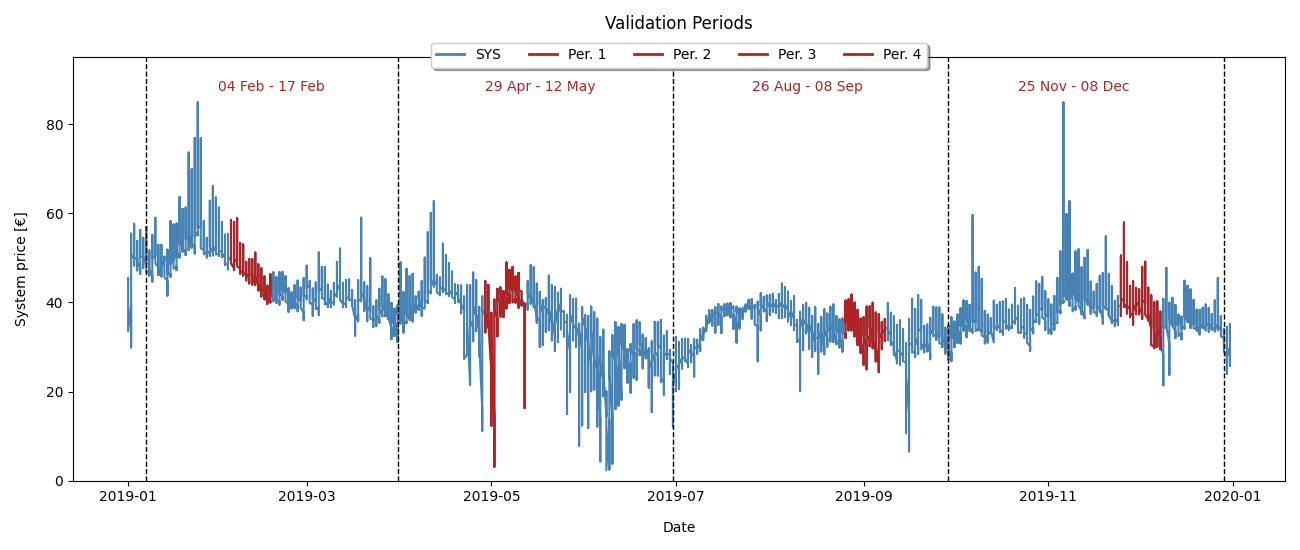
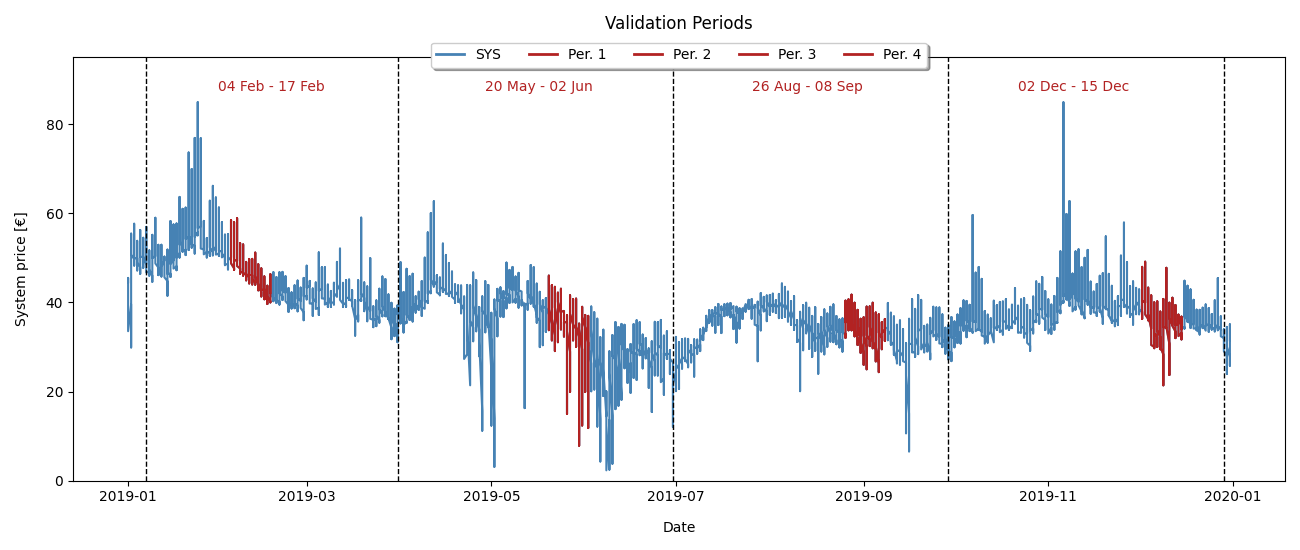
valideringstest og meget naiv modell

diff --git a/src/system/validate.py b/src/system/validate.py
@@ -1,0 +1,152 @@
+# script for validation test
+from generate_periods import get_four_periods_median_method
+from src.models.benchmarks import copy_last_day
+from data.data_handler import get_data
+import os
+import numpy as np
+import matplotlib.pyplot as plt
+import pandas as pd
+import shutil
+import datetime as dt
+import math
+
+
+def validate(model, periods):
+    print("-- Running validation using Model '{}' --".format(model.get_name()))
+    result_list = []
+    for i in range(len(periods)):
+        forecast_df = get_forecast(model, periods[i])
+        true_price_df = get_data(periods[i][0], periods[i][1], ["System Price"], os.getcwd())
+        result_df = true_price_df.merge(forecast_df, on=["Date", "Hour"], how="outer")
+        result_list.append(result_df)
+    result_path = get_result_folder(model)
+    for i in range(len(result_list)):
+        plot_result(result_list[i], periods[i], result_path, model.get_name(), str(i + 1))
+    calculate_point_performance(result_list, result_path, model)
+
+
+def get_forecast(model, period):
+    print("Forecasting from {} to {}".format(period[0], period[1]))
+    time_df = get_data(period[0], period[1], [], os.getcwd())
+    time_df["Forecast"] = np.nan
+    return model.get_point_forecast(time_df)
+
+
+def get_result_folder(model):
+    name = model.get_name()
+    # time = model.get_time() REMOVE "#" if you want to keep old folder with same model name
+    # folder_name = (name+"_"+time).replace(" ", "")
+    folder_name = name.replace(" ", "")
+    folder_path = "../results/validation/" + folder_name
+    if os.path.exists(folder_path):
+        shutil.rmtree(folder_path)  # delete old
+    os.makedirs(folder_path)  # create new
+    return folder_path
+
+
+def plot_result(result, period, dir_path, model_name, period_no):
+    label_pad = 12
+    title_pad = 20
+    img_size = (13, 7)
+    true_color = "steelblue"
+    fc_color = "firebrick"
+    result["Hour"] = pd.to_datetime(result['Hour'], format="%H").dt.time
+    result["DateTime"] = result.apply(lambda r: dt.datetime.combine(r['Date'], r['Hour']), 1)
+    print("Plotting from {} to {}".format(period[0], period[1]))
+    fig, ax = plt.subplots(figsize=img_size)
+    plt.plot(result["DateTime"], result["System Price"], label="True", color=true_color)
+    plt.plot(result["DateTime"], result["Forecast"], label="Forecast", color=fc_color)
+    for line in plt.legend(loc='upper center', ncol=5, bbox_to_anchor=(0.5, 1.03),
+                           fancybox=True, shadow=True).get_lines():
+        line.set_linewidth(2)
+    plt.ylabel("Price [€]", labelpad=label_pad)
+    plt.xlabel("Date", labelpad=label_pad)
+    ax.xaxis.set_major_locator(plt.MaxNLocator(7))
+    start_day_string = dt.datetime.strftime(period[0], "%d %b")
+    end_day_string = dt.datetime.strftime(period[1], "%d %b")
+    plt.title("Result from '{}' - {} to {}".format(model_name, start_day_string, end_day_string), pad=title_pad)
+    plt.tight_layout()
+    plot_path = period_no + "_" + start_day_string.replace(" ", "") + "_" + end_day_string.replace(" ", "") + ".png"
+    out_path = dir_path + "/" + plot_path
+    plt.savefig(out_path)
+    plt.close()
+
+
+def calculate_point_performance(result_list, dir_path, model):
+    print("\nCalculating point performance:")
+    mapes = []
+    smapes = []
+    maes = []
+    rmses = []
+    for result in result_list:
+        mapes.append(calculate_mape(result))
+        smapes.append(calculate_smape(result))
+        maes.append(calculate_mae(result))
+        rmses.append(calculate_rmse(result))
+    avg_mape = round(sum(mapes) / len(mapes), 2)
+    avg_smape = round(sum(smapes) / len(smapes), 2)
+    avg_mae = round(sum(maes) / len(maes), 2)
+    avg_rmse = round(sum(rmses) / len(rmses), 2)
+    summary = open(dir_path + "/performance.txt", "w")
+    summary.write("-- Performance Summary for '{}', created {} --\n\n".format(model.get_name(),
+                                                                              model.get_time().replace("_", " ")))
+    line = "Point performance:\nMape:\t {}\nSmape:\t{}\nMae:\t{}\nRmse:\t{}\n\n".format(avg_mape, avg_smape, avg_mae,
+                                                                                        avg_rmse)
+    summary.write(line)
+    lines = ["Mapes: " + ", ".join(format(x, ".2f") for x in mapes) + "\n",
+             "Smapes: " + ", ".join(format(x, ".2f") for x in smapes) + "\n",
+             "Maes: " + ", ".join(format(x, ".2f") for x in maes) + "\n",
+             "Rmses: " + ", ".join(format(x, ".2f") for x in rmses) + "\n"]
+    for line in lines:
+        summary.write(line)
+    summary.close()
+
+
+def calculate_mape(result):
+    apes = []
+    for index, row in result.iterrows():
+        true = row["System Price"]
+        forecast = row["Forecast"]
+        ape = (abs(true - forecast) / true) * 100
+        apes.append(ape)
+    mape = sum(apes) / len(apes)
+    return mape
+
+
+def calculate_smape(result):
+    sapes = []
+    for index, row in result.iterrows():
+        true = row["System Price"]
+        forecast = row["Forecast"]
+        sape = 100 * (abs(true - forecast) / (true + forecast / 2))
+        sapes.append(sape)
+    smape = sum(sapes) / len(sapes)
+    return smape
+
+
+def calculate_mae(result):
+    aes = []
+    for index, row in result.iterrows():
+        true = row["System Price"]
+        forecast = row["Forecast"]
+        ae = abs(true - forecast)
+        aes.append(ae)
+    mae = sum(aes) / len(aes)
+    return mae
+
+
+def calculate_rmse(result):
+    ses = []
+    for index, row in result.iterrows():
+        true = row["System Price"]
+        forecast = row["Forecast"]
+        se = (true - forecast) ** 2
+        ses.append(se)
+    rmse = math.sqrt(sum(ses) / len(ses))
+    return rmse
+
+
+if __name__ == '__main__':
+    model_ = copy_last_day.CopyLastDayModel()
+    periods_ = get_four_periods_median_method(write_summary=False)
+    validate(model_, periods_)

diff --git a/data/data_handler.py b/data/data_handler.py
@@ -2,25 +2,32 @@
 import datetime
 import pandas as pd
 import numpy as np
+import os
 
 
-def get_data(from_date, to_date, column_list):  # dates on form "dd.mm.yyyy", columns in list ["System Price", ...]
-    print("--Retrieving data from {} to {}. Columns: {} --\n".format(from_date, to_date, ", ".join(column_list)))
-    valid_dates = check_valid_dates(from_date, to_date)
-    if valid_dates:
-        first_row_in_data = datetime.datetime.strptime("01.01.2014", '%d.%m.%Y')
+def get_data(from_date, to_date, column_list, work_dir):  # dates on form "dd.mm.yyyy", columns in list ["System Price", ...]
+    # print("--Retrieving data from {} to {}. Columns: {} --\n".format(from_date, to_date, ", ".join(column_list)))
+    path = get_path_to_all_data(work_dir)
+    first_row_in_data = datetime.datetime.strptime("01.01.2014", '%d.%m.%Y')
+    if isinstance(from_date, str):
         first_date = datetime.datetime.strptime(from_date, '%d.%m.%Y')
+    else:
+        first_date = datetime.datetime(from_date.year, from_date.month, from_date.day)
+    if isinstance(to_date, str):
         last_date = datetime.datetime.strptime(to_date, '%d.%m.%Y')
+    else:
+        last_date = datetime.datetime(to_date.year, to_date.month, to_date.day)
+    valid_dates = check_valid_dates(first_date, last_date)
+    if valid_dates:
         difference = first_date - first_row_in_data
         years = difference.days // 365
         hours_less = years - 1
         skip_rows_no = int(difference.days * 24 + difference.seconds / 3600) + (16 * years) - hours_less
         columns = ["Date", "Hour"] + column_list
-        path = "../../data/input/combined/all_data_hourly.csv"  # only works when run from src
-        if len(column_list) > 0:
-            dataset = pd.read_csv(path, skiprows=range(1, skip_rows_no), usecols=columns)
-        else:
+        if len(column_list)==1 and column_list[0] == "all":
             dataset = pd.read_csv(path, skiprows=range(1, skip_rows_no))
+        else:
+            dataset = pd.read_csv(path, skiprows=range(1, skip_rows_no), usecols=columns)
         dataset["Date"] = pd.to_datetime(dataset["Date"], format='%Y.%m.%d')
         dataset = dataset[dataset['Date'] <= np.datetime64(last_date.date())]
         return dataset
@@ -30,21 +37,32 @@ def get_data(from_date, to_date, column_list):  # dates on form "dd.mm.yyyy", co
 
 def check_valid_dates(from_date, to_date):  # helping method checking that dates are valid
     valid = True
-    try:
-        first_date = datetime.datetime.strptime(from_date, '%d.%m.%Y')
-        last_date = datetime.datetime.strptime(to_date, '%d.%m.%Y')
-        if last_date < first_date:
+    if isinstance(from_date, str) and isinstance(to_date, str):
+        try:
+            first_date = datetime.datetime.strptime(from_date, '%d.%m.%Y')
+            last_date = datetime.datetime.strptime(to_date, '%d.%m.%Y')
+            if last_date < first_date:
+                print("First date must come before last date")
+                valid = False
+        except Exception as e:
+            print(e)
+    else:
+        if from_date > to_date:
             print("First date must come before last date")
             valid = False
-    except Exception as e:
-        print(e)
-    finally:
-        return valid
+    return valid
+
+
+def get_path_to_all_data(work_dir):
+    path_to_project = "/".join(work_dir.split("\\")[0:5])
+    path_to_all_data = "/data/input/combined/all_data_hourly.csv"
+    path = path_to_project + path_to_all_data
+    return path
 
 
 if __name__ == '__main__':
     date_string_from = "01.01.2019"
     date_string_do = "31.12.2019"
     col = ["System Price"]
-    data = get_data(date_string_from, date_string_do, col)
+    data = get_data(date_string_from, date_string_do, col, os.getcwd())
     print(data)

diff --git a/src/system/generate_periods.py b/src/system/generate_periods.py
@@ -5,6 +5,7 @@ import math
 import datetime as dt
 import numpy as np
 import matplotlib.pyplot as plt
+import os
 
 
 def get_seasons():
@@ -21,16 +22,16 @@ def get_four_periods_median_method(write_summary):
     for s in seasons:
         period_table = pd.DataFrame(columns=["Start date", "End date", "Mean", "Variance", "Mean Dev", "Var Dev",
                                              "Norm Mean Dev", "Norm Var Dev", "Score"])
-        data = data_handler.get_data(s[0], s[1], ["System Price"])
+        data = data_handler.get_data(s[0], s[1], ["System Price"], os.getcwd())
         first_date_in_season = data.iloc[0]["Date"].date()
         last_date_in_season = data.iloc[-1]["Date"].date()
-        number_of_periods = math.floor((len(data) / 24) / 14)
+        number_of_periods = math.floor((len(data) / 24) / 7)
         if write_summary:
             print("First date in season: {}".format(first_date_in_season))
             print("Last date in season: {}".format(last_date_in_season))
             print("Number of periods in season: {}\n".format(number_of_periods))
         for i in range(number_of_periods):
-            first_date = first_date_in_season + dt.timedelta(days=14 * i)
+            first_date = first_date_in_season + dt.timedelta(days=7 * i)
             last_date = np.datetime64(first_date + dt.timedelta(days=13))
             first_date = np.datetime64(first_date)
             period = (data['Date'] >= first_date) & (data['Date'] <= last_date)
@@ -42,6 +43,7 @@ def get_four_periods_median_method(write_summary):
 
         season_mean = period_table["Mean"].mean()
         season_variance = period_table["Variance"].mean()
+
 
         for index, period in period_table.iterrows():
             period_mean_dev = abs(period["Mean"] - season_mean)
@@ -66,15 +68,16 @@ def get_four_periods_median_method(write_summary):
         periods.append((start_date_optimal_period, end_date_optimal_period))
 
         if write_summary:
-            print(period_table)
+            print("Season mean: {}, season variance: {}".format(round(season_mean, 2), round(season_variance, 2)))
+            print(period_table[["Mean", "Variance", "Norm Mean Dev", "Norm Var Dev", "Score"]])
             print("Optimal start: {}, optimal end: {}".format(start_date_optimal_period, end_date_optimal_period))
             print("\n")
 
-    print("The following four periods are suggested as validation test periods")
-    for p in periods:
-        print(p)
-    print("\n")
-
+    if write_summary:
+        print("The following four periods are suggested as validation test periods")
+        for p in periods:
+            print(p)
+        print("\n")
     return periods
 
 
@@ -122,4 +125,5 @@ def plot_price_year_and_periods(periods, write_dates):
 
 if __name__ == '__main__':
     periods_ = get_four_periods_median_method(write_summary=False)
-    plot_price_year_and_periods(periods_, write_dates=True)
+    # plot_price_year_and_periods(periods_, write_dates=True)
+    print(periods_)

diff --git a/src/models/benchmarks/copy_last_day.py b/src/models/benchmarks/copy_last_day.py
@@ -1,0 +1,45 @@
+# script for the most naive model: copy the 24 hours of last day for the following 14 days
+from datetime import datetime as dt
+from datetime import timedelta
+import pandas as pd
+from data import data_handler
+import os
+import numpy as np
+
+
+class CopyLastDayModel:
+    def __init__(self):
+        self.name = "Copy Last Day"
+        today = dt.today()
+        self.creation_date = str(today)[0:10] + "_" + str(today)[11:16]
+        print("'{}' is instantiated\n".format(self.name))
+
+    def get_name(self):
+        return self.name
+
+    def get_time(self):
+        return self.creation_date
+
+    @staticmethod
+    def get_point_forecast(forecast_df):  # forecast_df is dataframe with ["Date", "Hour", "Forecast"]
+        start_date = forecast_df.at[0, "Date"]
+        prev_day = start_date - timedelta(days=1)
+        prev_day_string = prev_day.strftime("%d.%m.%Y")
+        prev_day_price = data_handler.get_data(prev_day_string, prev_day_string, ["System Price"], os.getcwd())
+        hour_price_df = prev_day_price[["Hour", "System Price"]]
+        hour_price_dict = pd.Series(hour_price_df["System Price"].values, index=hour_price_df["Hour"]).to_dict()
+        for index, row in forecast_df.iterrows():
+            hour_of_day = row["Hour"]
+            forecast_hour = hour_price_dict[hour_of_day]
+            forecast_df.at[index, "Forecast"] = forecast_hour
+        return forecast_df
+
+
+if __name__ == '__main__':
+    model = CopyLastDayModel()
+    start_date_ = "04.02.2019"
+    end_date_ = "17.02.2019"
+    time_list_ = data_handler.get_data(start_date_, end_date_, [], os.getcwd())
+    time_list_["Forecast"] = np.nan
+    forecast_ = model.get_point_forecast(time_list_)
+    print(forecast_)
